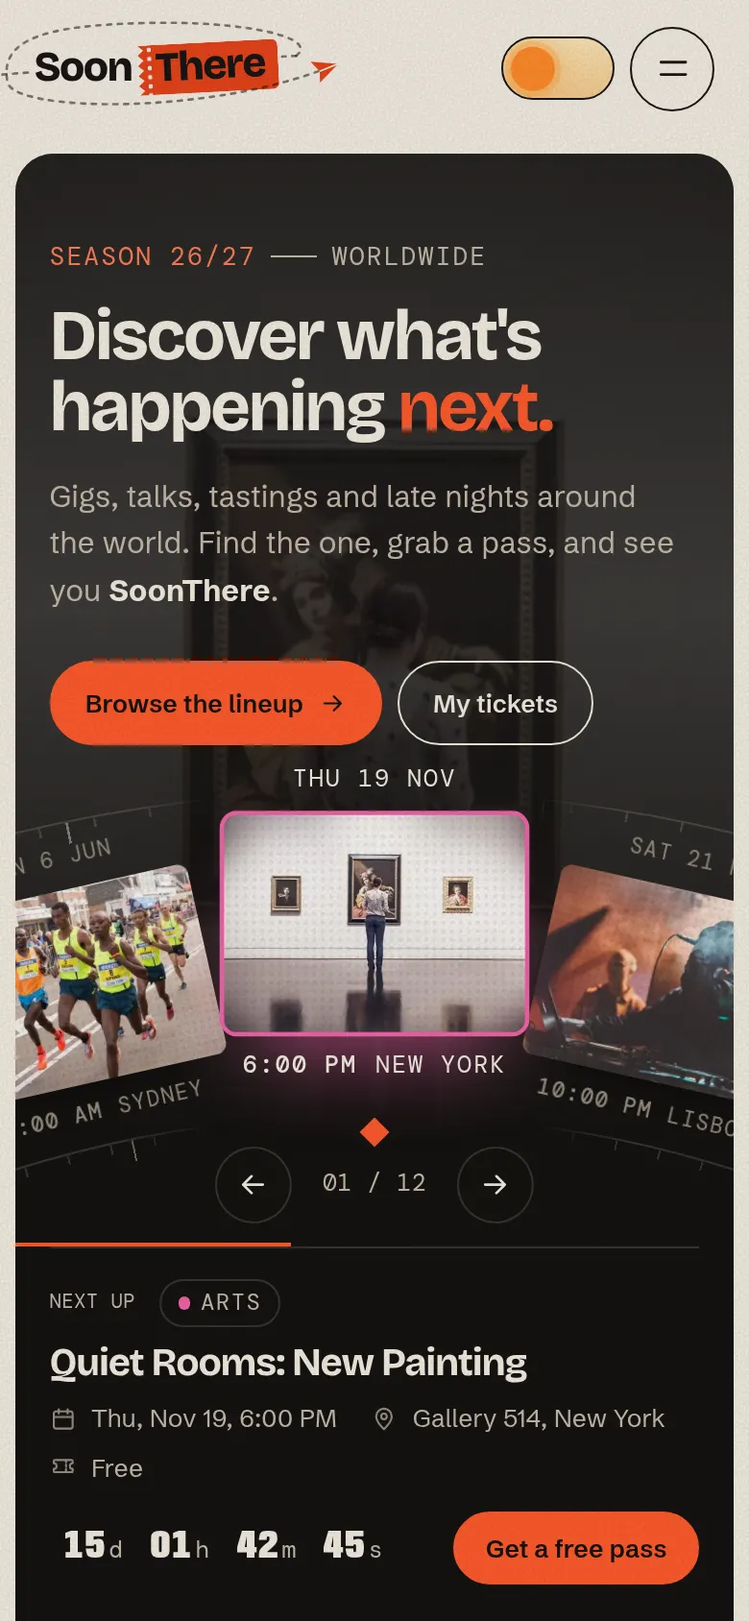
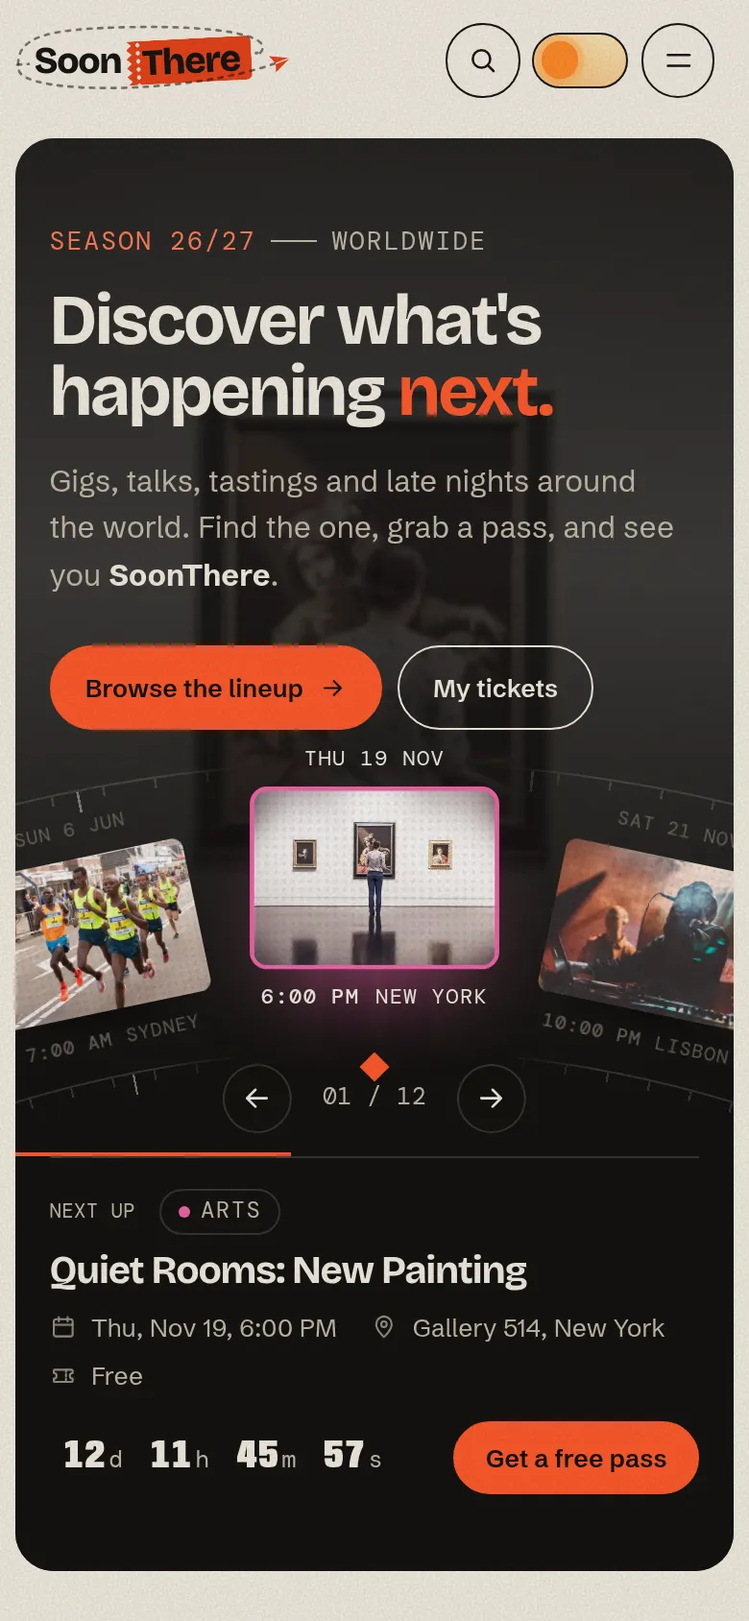
rewrite the readme and refresh the screenshots

diff --git a/README.md b/README.md
@@ -1,187 +1,168 @@
 # SoonThere
 
-**A responsive event management website. Discover what's happening next. See you SoonThere.**
+**An event management website for discovering events, registering for them and managing every booking in one place.**
 
-SoonThere is an event management website built for the K Explore Web Designing task. Visitors can explore upcoming and featured events, search for an event or filter by category, open any event for its full details, and register for it through a form that is validated in JavaScript and ends with a confirmation message. Registrations are kept in Local Storage and can be viewed and cancelled under My tickets, and organisers get an admin area for managing the events and checking people in. It's built with plain HTML5, CSS3 and JavaScript, with no frameworks and no build step, and works on phones, tablets and desktops.
+Live site: **https://soonthere.vercel.app**
 
-**Live site:** https://soonthere.vercel.app
+![SoonThere home page](docs/screenshots/home.webp)
 
-## How it meets the brief
+SoonThere lists gigs, talks, tastings, workshops and late nights in cities around the world. Visitors browse upcoming and featured events, search and filter them by category, open any event for its full details and register in about a minute. Registrations are saved in the browser's Local Storage, where they can be reviewed and cancelled, and organisers get an admin area to manage events and check people in at the door.
 
-| The brief asks for | Where it is |
-| --- | --- |
-| A hero section introducing the platform | Top of the home page: headline, introduction, buttons to browse events or see your tickets, and a dial of upcoming events |
-| A section showcasing upcoming and featured events | Home page: **Featured events** (the three headliners), then **Upcoming events** (every event, with past ones under their own divider when shown) |
-| An event card with name, date, venue, image and a short description | Every event card in the lineup, on desktop and phone |
-| Browse, search and filter events by category | Upcoming events section: search box, category filters, sorting, a past events switch. There's also a search box in the header on every page |
-| Detailed information about a selected event, with a registration option | `event.html`: date and time, venue, price, spots left, countdown, description, schedule, map link, and a Register button |
-| A registration form for name, email, phone number and the selected event | `register.html`, with the event already selected when you come from its page |
-| JavaScript form validation before submitting | Every field is checked as you go and again on submit (details below) |
-| A confirmation message after a successful submission | "You're in! See you SoonThere." with the booking number and your pass |
-| Responsive on phones, tablets and desktops | Tested at 360, 390, 768, 1024, 1280 and 1440 pixels wide |
-| Good UI/UX, consistent styling, smooth transitions, interactive elements | One design system across every page, page transitions, the hero dial, hover and focus states |
-| HTML5, CSS3 and JavaScript | No framework, no build step |
-| Bonus: dark/light mode | Day and night switch in the header |
-| Bonus: event countdown timers | Hero, featured events and every event page |
-| Bonus: animations | See [Everywhere](#everywhere) |
-| Bonus: Local Storage registration management | My tickets: every registration, with cancelling; the admin area: check-in, cancelling and CSV export |
-| Git and GitHub, a deployed link and a README | This repository, deployed on Vercel at the link above |
+It is built with HTML5, CSS3 and plain JavaScript, with no framework and no build step, and works on phones, tablets and desktops.
 
-![Home page with the event dial](docs/screenshots/home.webp)
+## Features
 
----
+### Discover events
+- **Hero dial.** Upcoming events sit on the rim of a wheel that turns on its own. Drag it, swipe it, or use the arrow buttons and keys. The selected event is shown in full with a live countdown, and its photo fills the stage.
+- **Featured events.** Three highlighted events as large poster cards.
+- **Upcoming events.** Every event as a card with its name, date, venue, image and a short description.
+  - Search by name, venue, city, organiser or tag, accents ignored.
+  - Filter by category, with live counts.
+  - Sort by date, popularity or price.
+  - Show past events, which appear under their own "Already happened" divider.
+  - Filters are kept in the URL, so a filtered view can be shared.
+- **Search from any page.** The header search suggests events as you type and hands the search over to the lineup.
 
-## What it does
-
-### Home
-- **Hero dial.** Upcoming events sit on the rim of a large wheel. On wide screens the words and the selected event sit on the left, the event's photo fills the stage, and a smaller dial docks in the bottom-right corner. On phones and tablets the dial runs full width under the headline. The event under the pointer is shown in full (title, date, venue, price, a live countdown) and its photo fills the background. The dial turns on its own every few seconds, and you can also drag it, swipe it on a trackpad, use the arrow buttons or the arrow keys. It pauses while the pointer rests on one of its cards or while you're using the keyboard, and keeps turning when you're just moving around the rest of the hero.
-- **Headliners.** Three featured events as large poster cards with live countdowns. On phones they become a row you swipe through.
-- **The lineup.** Every upcoming event as a ticket-style card with its name, date, venue, image and a short description. On phones each card turns into a compact ticket row, with the description cut to two lines, so several fit on screen at once.
-  - **Search.** Matches names, venues, cities, organisers and tags, and ignores accents, so "alcantara" finds "Alcântara".
-  - **Category filters.** Each one shows a live count of matching events.
-  - **Sorting.** By date, popularity or price. Prices are in local currencies, so they're roughly converted before comparing.
-  - **Past events.** A switch shows events that have already happened, under their own "Already happened" divider so the upcoming ones still read as upcoming. If a search also matches past events while the switch is off, a note says how many and offers to show them.
-  - **Shareable filters.** Search and filter settings are kept in the URL, so a filtered view can be shared or bookmarked. Press `/` to jump to the search box.
-
-![The lineup with search and category filters](docs/screenshots/lineup.webp)
-
-### Event page
-- **Cover photo.** It starts tinted in the event's category colour and fades up to full colour. In browsers that support cross-page view transitions, the card you clicked morphs into this cover.
-- **Ticket panel.** Price, date and venue, plus a live countdown and a bar showing how many spots are left. Times are shown in the venue's local time, with a note of what that is in your own time zone when it's different.
-- **Details.** A description, highlights, a timeline of the day, the venue with a link to maps, and tags.
-- **Calendar and sharing.** "Add to calendar" downloads an `.ics` file. "Share" uses the phone's share sheet where there is one and copies the link everywhere else.
-- **Booking states.** Sold-out, already-started and finished events say so instead of offering a Register button.
-- **More like this.** Related events at the bottom of the page.
-- **Phones.** A small booking bar slides up once the main Register button has scrolled out of view.
-
-![Event details page](docs/screenshots/event.webp)
+### Event details
+- Date, time and venue in the venue's own time zone, with your local time alongside when it differs.
+- Price, spots left, a live countdown, the description, highlights, the schedule and a map link.
+- **Register**, **Add to calendar** (an `.ics` file) and **Share**.
+- Sold-out, started and finished events say so instead of offering registration.
 
 ### Registration
-- **Fields.** Name, email, phone and the event (pre-selected when you arrive from an event page). There's also a number of passes, an optional note and a tick box for the house rules.
-- **Validation.** Every field is checked in JavaScript before anything is saved:
-  - **When it runs:** a field is checked when you leave it, then on every keystroke once it has shown an error. The whole form is checked again on submit, and the first problem gets focus.
-  - **Name:** 2 to 60 characters, using letters (including accented ones), spaces, hyphens and apostrophes.
-  - **Email:** a practical format check, plus a check that this email hasn't already booked this event.
-  - **Phone:** international numbers with 7 to 15 digits and an optional `+`. Spaces, dashes, dots and brackets are allowed.
-  - **Passes:** 1 to 5, and never more than the spots left.
-  - **Event:** must exist and still be open. Sold-out events can't be booked.
-  - **Errors:** each one appears next to its field and is linked to it for screen readers with `aria-describedby` and `aria-invalid`.
-- **Clash warning.** If the new booking overlaps one you already have, or is in another city only a few hours away, the form warns you but still lets you book.
-- **Live pass preview.** A ticket next to the form fills in as you type.
-- **Confirmation.** On success the pass is saved and the form is replaced by a confirmation: **"You're in! See you SoonThere."** The pass slides in, a "You're in" stamp lands on it and a little confetti falls. It shows a booking number such as `ST-K7M2QX` and offers an "Add to calendar" button.
-- **Accounts are optional.** Guests can book straight away. Signed-in visitors get their name and email filled in, and the pass is saved to their account.
+The form collects the participant's **name, email, phone number and the selected event**, plus the number of passes and an optional note. Everything is validated in JavaScript before it is saved:
 
-![Registration confirmation](docs/screenshots/register.webp)
+| Field | Rule |
+| --- | --- |
+| Name | 2 to 60 characters; letters (including accented ones), spaces, hyphens and apostrophes |
+| Email | A valid address that hasn't already registered for this event |
+| Phone | 7 to 15 digits, an optional `+`, and spaces, dashes or brackets |
+| Event | Must exist and still be open |
+| Passes | 1 to 5, and never more than the spots left |
+
+Fields are checked when you leave them and again on submit, and errors appear beside each field and are announced to screen readers. A pass preview fills in as you type, and the form warns about clashes with your other bookings. A successful registration ends with a confirmation message, **"You're in! See you SoonThere."**, along with a booking number and the pass.
 
 ### My tickets
-- **Coming up.** A sideways timeline of your bookings, with a date rail above the passes and a time rail below. Two half-wheels peek out at either end. The left one is a 24-hour bezel shaded from night to day that turns to the focused pass's start time. The right one carries the days of that month, with a dot on every day you're booked, and turns to its date. On narrower screens the wheels sit above the passes, with the name of the pass they're showing and the arrows between them.
-- **Season at a glance.** A heatmap of the whole season. Days you're going are highlighted, other days with events are shaded, and clicking a highlighted day jumps to that booking.
-- **Been there.** Past bookings on a strip of film. When there aren't any yet, it says so.
-- **Pass details.** Open any pass to see it in full, add it to your calendar or cancel it. Cancelling asks for confirmation, and the spots go back on sale straight away. A "clear everything" option is there too.
-
-![My tickets](docs/screenshots/tickets.webp)
+- A timeline of upcoming bookings, with a 24-hour clock wheel and a calendar wheel that turn to the selected pass.
+- A season heatmap of the days you're going out.
+- Past events on a "Been there" film strip.
+- Open any pass to see it in full, add it to your calendar or cancel it. Cancelled spots go back on sale straight away.
 
 ### Accounts and admin
-- **Sign in or create an account** on `account.html`. Passwords need at least 8 characters with a letter and a number.
-- **Members** see the bookings made on their account, or with their email, under My tickets. Signed out, My tickets shows guest bookings made on this device.
-- **Admins** get an Admin link in the header, which opens `admin.html`:
-  - **Overview:** events coming up, passes booked, passes checked in and accounts.
-  - **Events:** add, edit and remove events, with every field the event page uses, including the venue's time zone and a cover photo (pick one of the site's or upload your own). Each event shows how many of its spots are taken. "Restore the original lineup" undoes every change.
-  - **Check-in:** type a booking number to admit someone. It catches unknown numbers, passes that were already used and passes for a different event. Attendee lists can be filtered by event, and check-ins can be undone.
-  - **Bookings:** every booking, searchable, with cancelling and a CSV export.
-  - **Members:** every account, with the option to make someone an admin.
-![Admin area](docs/screenshots/admin.webp)
+- **Accounts are optional.** Guests can register straight away. Signed-in members get their details filled in and their bookings kept together.
+- **The admin area:**
+  - an overview of events, bookings and check-ins
+  - add, edit and remove events, including their time zone and cover photo
+  - check in by booking number, catching unknown or already-used passes
+  - search and cancel bookings, and export them as CSV
+  - manage members and admin access
 
-- **Demo accounts.** The sign-in page has a button for each one that signs you straight in.
+### Throughout
+- **Light and dark mode.** Follows your system setting until you choose, then remembers your choice.
+- **Countdown timers** on the hero, featured events and event pages.
+- **Animations.** Page transitions, scroll reveals and a paper-plane logo. There's also a footer wordmark drawn as a crowd that gathers round your pointer or finger. All motion respects the "reduce motion" setting.
+- **Responsive** from 360px phones to wide desktops.
+- **Accessible.** Semantic HTML, keyboard support, visible focus and labelled form errors.
 
-  | Account | Email | Password | What you'll see |
-  | --- | --- | --- | --- |
-  | Demo user | `user1@soonthere.app` | `soonthere-demo` | Five upcoming bookings on the timeline, dials and heatmap, and four past nights out on the "Been there" reel |
-  | Admin | `admin@soonthere.app` | `soonthere-admin` | The admin area. Try checking in the demo user's booking `ST-K7M2QX`, then scanning it again |
+## Screenshots
 
-> There's no server behind the site, so accounts, bookings and lineup changes are stored in the browser (localStorage). They don't sync between devices, and this isn't real security: anyone with the browser's developer tools could change the data. Passwords are salted and hashed with SHA-256 using the Web Crypto API rather than stored as text, but a real launch would move all of this to a backend.
-
-### Everywhere
-- **Light and dark themes.** The site follows your system setting until you pick one, then remembers your choice. The switch is a little sky: the sun slides across, turns into a moon and the stars come out, and the new theme spreads out in a circle from it.
-- **Logo.** "There" is printed on a torn ticket stub, and a paper plane's dashed flight path loops round the name: it slips behind the word, loops back over the top and sweeps out underneath, with the plane at the end. The path is drawn to fit the word, and the plane flies it on load and on hover.
-- **Search from any page.** A search box in the header suggests matching events as you type (or the next few events before you type), and the arrow keys move through them. Enter shows every match in the lineup. On phones and tablets it's a button that opens the field over the header. On the home page it steps aside while the lineup's own search box is on screen, and comes back with whatever you typed once you scroll past it.
-- **Countdown timers.** Shown on the hero, the headliners and the event pages.
-- **The crowd in the footer.** The big SoonThere at the bottom of every page is drawn as a crowd of dots on a canvas. Walk the pointer through it and the people nearby turn and press in towards you, leaving a little space around you and parting as you move, then drift back to their places once you have gone by. The real text stays underneath for screen readers, and the effect is off when "reduce motion" is set.
-- **Animation.** Scroll reveals, marquee tapes, a 3D tilt on cards, buttons that lean gently towards the pointer and fill from the side it enters, and page transitions. All motion is turned off for people who set "reduce motion" in their system settings.
-- **Responsive layout.** Built mobile first and tested at 360, 390, 768, 1024, 1280 and 1440 pixels wide.
-- **A custom 404 page.** "Wrong venue."
-
-| Dark mode | On a phone |
+| Upcoming events | Event details |
 | --- | --- |
-| ![Dark mode](docs/screenshots/home-dark.webp) | ![Mobile](docs/screenshots/home-mobile.webp) |
+| ![Upcoming events with search and filters](docs/screenshots/lineup.webp) | ![Event details](docs/screenshots/event.webp) |
+| **Registration confirmation** | **My tickets** |
+| ![Registration confirmation](docs/screenshots/register.webp) | ![My tickets](docs/screenshots/tickets.webp) |
+| **Admin area** | **Dark mode** |
+| ![Admin area](docs/screenshots/admin.webp) | ![Dark mode](docs/screenshots/home-dark.webp) |
 
----
+<p align="center"><img src="docs/screenshots/home-mobile.webp" alt="SoonThere on a phone" width="300"></p>
+
+## Try it
+
+The sign-in page has a button for each demo account that signs you straight in.
+
+| Account | Email | Password | What you'll see |
+| --- | --- | --- | --- |
+| Demo member | `user1@soonthere.app` | `soonthere-demo` | Upcoming bookings on the timeline and heatmap, and past events on the "Been there" strip |
+| Admin | `admin@soonthere.app` | `soonthere-admin` | The admin area. Try checking in booking `ST-K7M2QX`, then scanning it again |
+
+There is no server behind the site. Events edited by admins, accounts and registrations are stored in the browser's Local Storage, so they stay on that device. Passwords are salted and hashed with SHA-256 rather than stored as text, but a real launch would move all of this to a backend.
 
 ## How it's built
 
 ```
-index.html        home: hero dial, headliners, lineup, how it works
-event.html        one event, picked with ?id=
-register.html     registration form and confirmation, event picked with ?event=
+index.html        home: hero, featured events, upcoming events, how it works
+event.html        event details (?id=)
+register.html     registration form and confirmation (?event=)
 tickets.html      My tickets
-account.html      sign in, create an account, profile
-admin.html        admin area: events, check-in, bookings, members
+account.html      sign in and create an account
+admin.html        admin area
 404.html          not found
-css/
-  base.css        design tokens, light and dark themes, reset, type
-  layout.css      header, mobile menu, footer
-  components.css  buttons, chips, ticket cards, form fields, countdown, toasts
-  pages.css       page-specific styles
+css/              design tokens and themes, layout, components, page styles
 js/
-  app.js          shared on every page: theme, header, reveals, tilt, toasts
-  data/events.js  the events themselves
-  lib/            dom helpers, date and price formatting, storage, catalogue, search, accounts, validation, .ics export
-  components/     event cards, countdown, hero dial, pass, header search, footer crowd
+  app.js          shared on every page: theme, header, search, animations
+  data/           the events
+  lib/            storage, catalogue, search, accounts, validation, formatting
+  components/     event cards, countdowns, hero dial, pass, header search, footer crowd
   pages/          one module per page
-assets/           favicon, share image, event photos
+assets/           event photos, favicon, share image
 ```
 
-### Notes on the implementation
+- **No framework, no build step.** Each page loads one ES module that imports what it needs, so the site is plain static files.
+- **One source of truth.** Every page reads events through a small catalogue module. When an admin edits the events, the edited list is saved in Local Storage and used everywhere.
+- **Local Storage.** Registrations, accounts, the session and the theme each have their own key. Every read and write is guarded, so browsers that block storage still work. Changes sync across open tabs.
+- **Time zones.** Times are stored in UTC with the venue's IANA time zone and formatted with the `Intl` APIs, so an 8 pm show in Lisbon reads 8 pm everywhere. Prices use each event's local currency.
+- **Safe rendering.** Markup is built with a tagged template that escapes every value, so nothing typed into a form can become HTML.
+- **Progressive enhancement.** View transitions, styled dropdowns, the share sheet and the canvas crowd are used where supported, and the site works without them.
 
-- **No build step.** Every page loads a single ES module (`js/pages/*.js`), which imports what it needs. The site is static files, so it deploys anywhere.
-- **One source of truth.** The built-in lineup lives in `js/data/events.js`. When an admin changes it, the edited list is saved under `soonthere:events` and used instead, so every page sees the same events. Cards, filters, the dial, event pages and the registration form all read from it through small helpers in `js/lib/catalog.js`, such as `upcoming()`, `getStatus()`, `seatsLeft()` and `findClashes()`.
-- **Safe templating.** Markup is built with a small `html` tagged template (in `js/lib/dom.js`) that escapes every interpolated value, so nothing typed into the form can end up as HTML.
-- **Time zones.** Start and end times are stored in UTC along with the venue's IANA time zone. Every date and time on the site is formatted with `Intl.DateTimeFormat` in the venue's zone, so an 8 pm gig in Lisbon says 8 pm wherever you are. Prices use `Intl.NumberFormat` in the event's own currency, and phrases like "in 17 days" come from `Intl.RelativeTimeFormat`.
-- **localStorage.** Bookings are saved under `soonthere:registrations` as a list of `{ id, eventId, name, email, phone, passes, note, createdAt }`, the theme under `soonthere:theme`, accounts under `soonthere:users` and the signed-in session under `soonthere:session`. Reads and writes are wrapped in `try`/`catch`, so private browsing modes that block storage don't break the site. A custom `registrations:change` event, plus the browser's `storage` event, keeps the ticket count and seat numbers in sync across open tabs. Seats left are worked out as capacity, minus the event's existing bookings, minus your own passes.
-- **The dial.** Each card is rotated around a point far below the stage, so the cards sit on the rim of a big wheel. A `requestAnimationFrame` loop eases the dial towards its target position. The rings of tick marks are plain CSS (`repeating-conic-gradient` with a radial mask), and they fade out around the centre card so its date and time stay readable.
-- **Times entered by admins.** An event's doors time is typed in the venue's local time and converted to UTC by working out that zone's offset with `Intl.DateTimeFormat`, so daylight saving is handled.
-- **Progressive enhancement.** View transitions, the share sheet and the clipboard are used where the browser supports them, and everything still works without them.
-- **Accessibility.**
-  - Semantic landmarks and a skip link.
-  - Visible focus styles.
-  - Labelled form fields with linked error messages.
-  - Keyboard support for the dial and the timeline.
-  - A native `<dialog>` for passes.
-  - Alt text on event photos.
-  - Respect for `prefers-reduced-motion`.
+## Quality
 
-## Running it locally
+- **Lighthouse** (live site, main pages):
+  - Accessibility, Best Practices and SEO: 100 on every page
+  - Performance on desktop: 98–100
+  - Performance on mobile: 97–99, and 85 for the home page with its full-screen hero
+- HTML validated on every page, and no issues from the axe accessibility checker in light or dark mode.
+- Tested at 360, 390, 768, 1024, 1280 and 1440px wide, with no horizontal scrolling.
 
-The pages use ES modules, so they need to be served over HTTP rather than opened as files. From the project folder, run either:
+## Running locally
+
+The pages use ES modules, so serve the folder over HTTP rather than opening the files directly:
 
 ```bash
 python3 -m http.server 8000
-# or
-npx serve .
 ```
 
 Then open http://localhost:8000.
 
 ## Deployment
 
-The site is deployed on Vercel straight from this repository. There's no build command; Vercel serves the files as they are and uses `404.html` for missing pages. Every push to `main` goes live automatically.
+Deployed on Vercel from this repository. There is no build command; every push to `main` goes live automatically.
+
+<details>
+<summary><strong>Project brief coverage</strong> (K Explore Web Designing)</summary>
+
+| Requirement | Where |
+| --- | --- |
+| Hero section introducing the platform | Home page, top |
+| Upcoming and featured events | Home page: Featured events, then Upcoming events |
+| Event cards with name, date, venue, image and short description | Upcoming events and related events |
+| Browse, search and filter by category | Upcoming events section and the header search |
+| Event details with a registration option | `event.html` |
+| Registration form with name, email, phone and selected event | `register.html` |
+| JavaScript form validation | `js/lib/validate.js`, `js/pages/register.js` |
+| Confirmation message on success | After registering |
+| Responsive on mobile, tablet and desktop | Every page |
+| HTML5, CSS3, JavaScript; Git and GitHub | This repository |
+| Bonus: dark/light mode, countdown timers, animations, Local Storage registration management | All included |
+| Deployed link and README | Vercel, this file |
+
+</details>
 
 ## Credits
 
-- **Photos:** from [StockSnap](https://stocksnap.io) under the CC0 licence. The photographers are Søren Astrup Jørgensen, Nainoa Shizuru, Jens Thekkeveettil, Daria Nepriakhina, Startup Stock Photos, Toa Heftiba, Burst, Ryan McGuire, Freestocks.org, Matthew Kane, Skitter Photo, Austin Neill, Anthony Delanoix, Matt Bango, Barn Images and Tohm Brigitte.
-- **Fonts:** from Google Fonts: Bricolage Grotesque, Schibsted Grotesk, DM Mono and Anybody.
-- **Events:** all made up. No real tickets are sold and nothing is charged or emailed.
+- **Photos** from [StockSnap](https://stocksnap.io) (CC0) by Søren Astrup Jørgensen, Nainoa Shizuru, Jens Thekkeveettil, Daria Nepriakhina, Startup Stock Photos, Toa Heftiba, Burst, Ryan McGuire, Freestocks.org, Matthew Kane, Skitter Photo, Austin Neill, Anthony Delanoix, Matt Bango, Barn Images and Tohm Brigitte.
+- **Fonts** from Google Fonts: Bricolage Grotesque, Schibsted Grotesk, DM Mono and Anybody.
+- **Events** are fictional. No real tickets are sold and nothing is charged.
 
 ## Copyright
 
-© 2026 Sarban Kumar Jena. All rights reserved. Instructors and evaluators are welcome to view, run and assess the project for grading; see [LICENSE](LICENSE) for the details and for the terms of the photos and fonts it uses.
+© 2026 Sarban Kumar Jena. All rights reserved. See [LICENSE](LICENSE).
